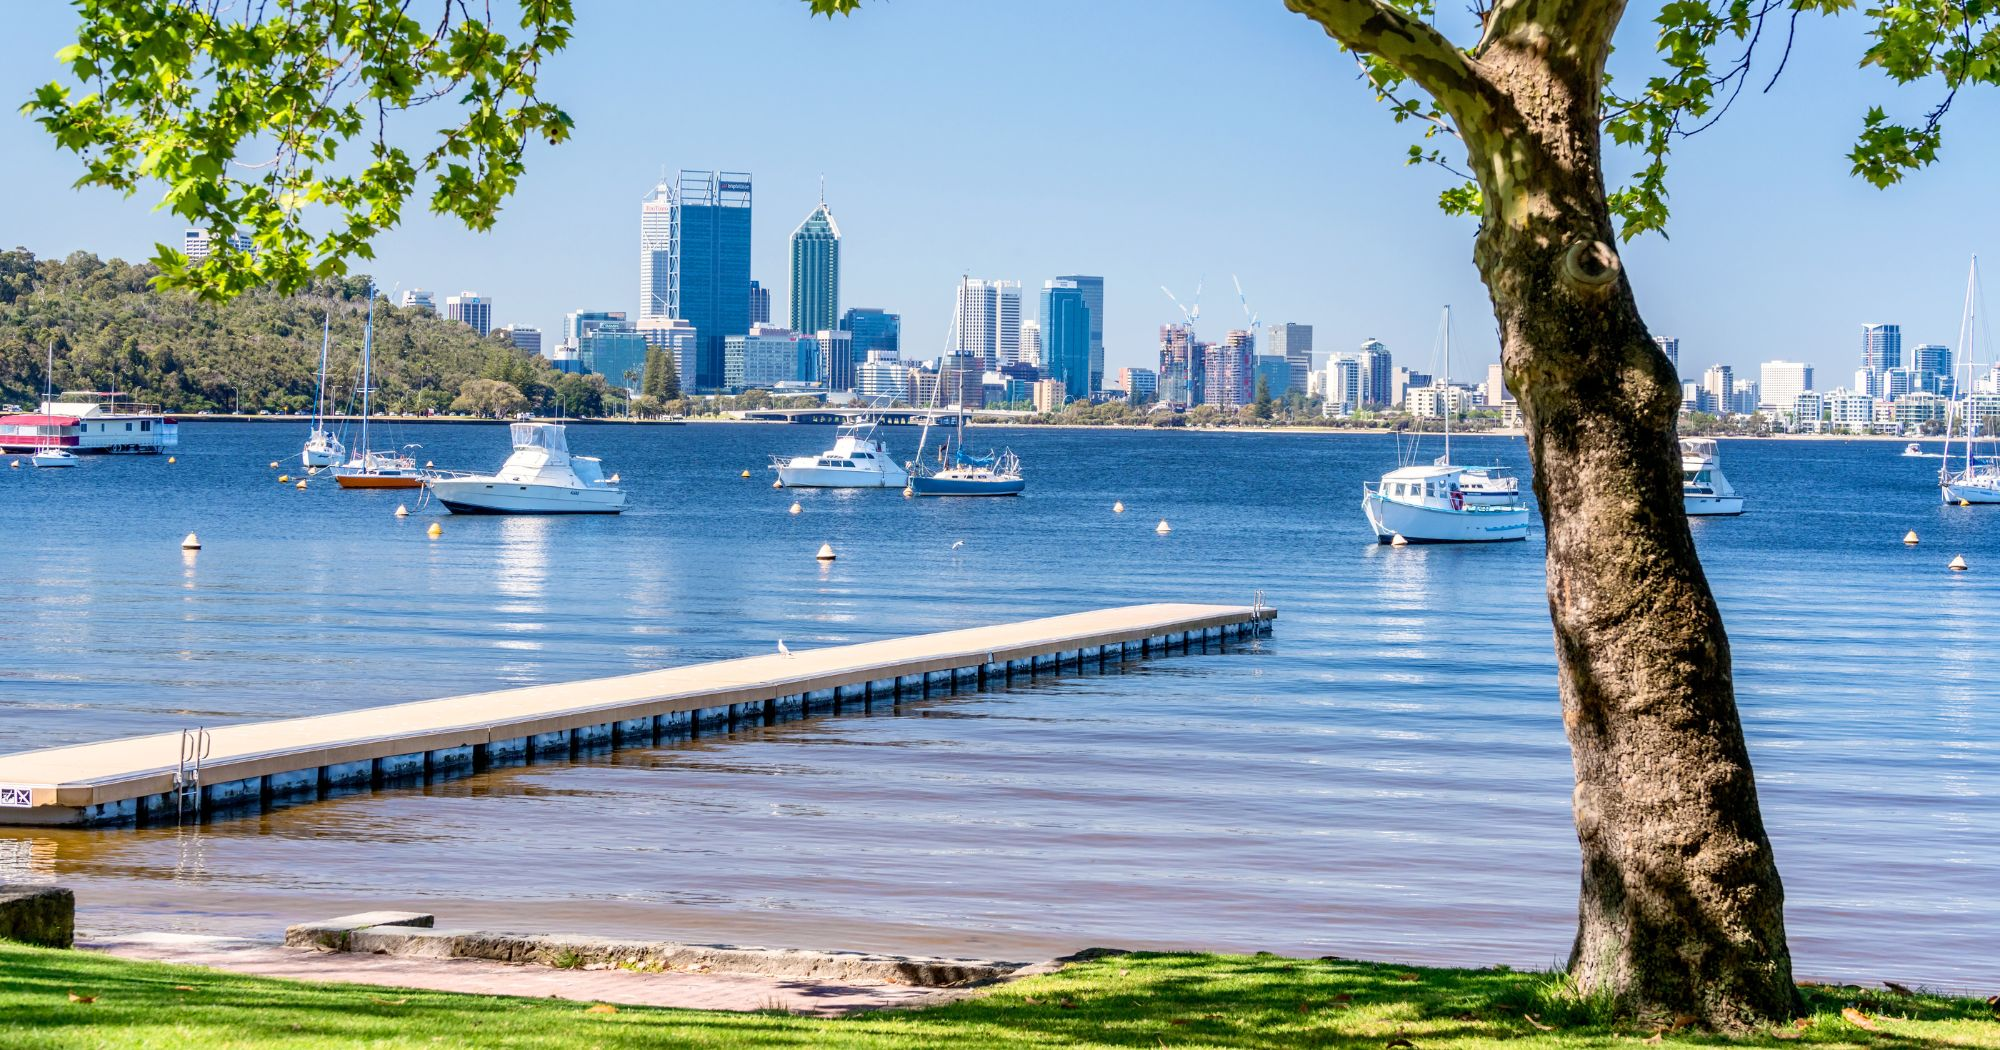
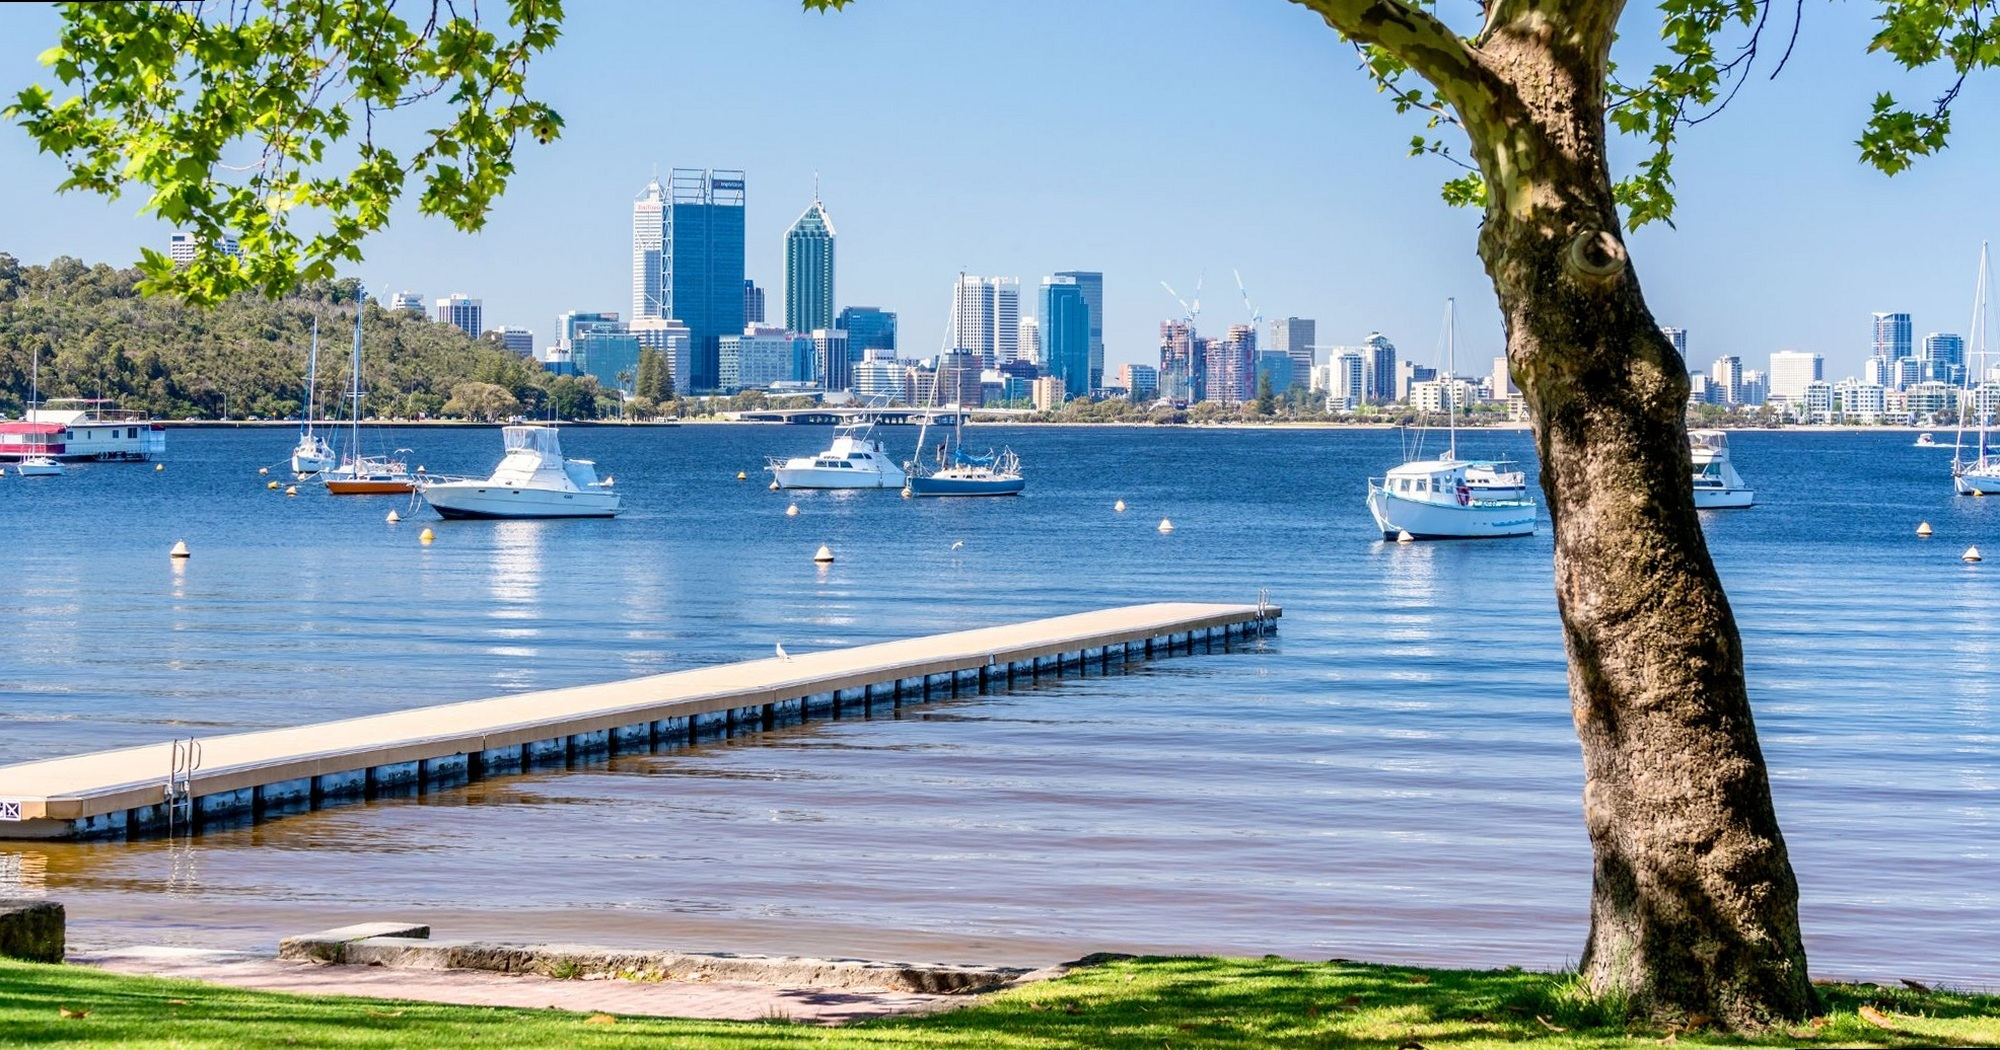
updated eplxore perth

diff --git a/explore-perth.html b/explore-perth.html
@@ -187,7 +187,7 @@
           <img
             src="img/explore-perth/matilda-bay.jpg"
             alt="Sunset at Matilda Bay"
-            class="perth-attraction-img"
+            class="perth-attraction-img perth-attraction-img-wide"
           />
           <p>
             Take a short walk from EZONE UWA through the Crawley campus to
@@ -521,7 +521,7 @@
               >Plan a visit to Swan Valley</a
             >
           </p>
-
+<!-- 
           <h3>The Pinnacles</h3>
           <img
             src="img/explore-perth/pinnacles.jpg"
@@ -564,7 +564,7 @@
               rel="noopener noreferrer"
               >Plan a visit to the Pinnacles</a
             >
-          </p>
+          </p> -->
 
           <h2 id="getting-around-perth">Getting Around Perth</h2>
           <hr />

diff --git a/css/custom.css b/css/custom.css
@@ -1735,6 +1735,10 @@ body {
   margin: 0.75rem 0 1rem;
 }
 
+.perth-attraction-img-wide {
+  height: auto;
+}
+
 .perth-image-credits {
   color: #666;
   font-size: 12px;